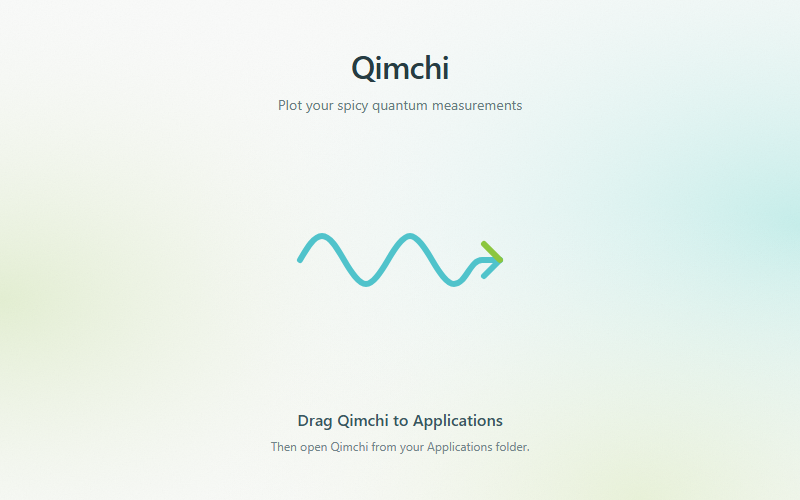
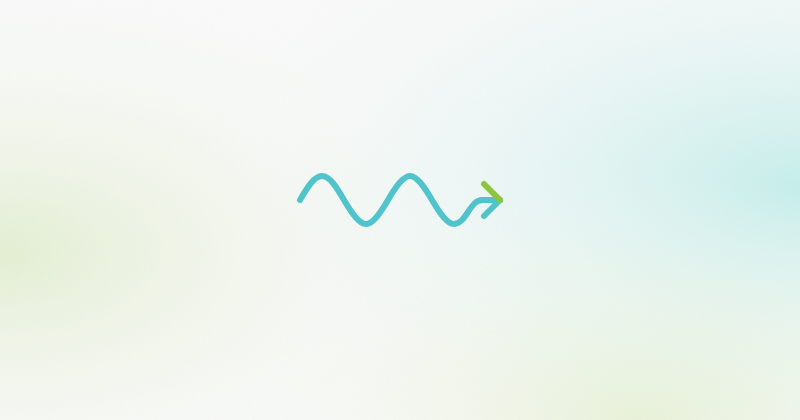
Packaging: simplify the macOS installer artwork

Changed region(s): [[0.375, 0.4024, 0.625, 0.5881], [0.3438, 0.8357, 0.6562, 0.9286], [0.3438, 0.0929, 0.6562, 0.2476]]

diff --git a/packaging/dmg-settings.py b/packaging/dmg-settings.py
@@ -2,6 +2,7 @@
 Branded Finder layout, written by dmgbuild without a live Finder session.
 
 The build passes absolute app and assets paths via dmgbuild's -D arguments.
+
 Keep the window and icon coordinates aligned with assets/dmg-background.svg.
 
 """
@@ -24,7 +25,7 @@ if not Path(background).is_file():
     raise FileNotFoundError(background)
 
 # dmgbuild combines the adjacent @2x PNG into a Retina background on macOS.
-window_rect = ((200, 120), (800, 500))
+window_rect = ((200, 120), (800, 420))
 default_view = "icon-view"
 show_toolbar = False
 show_status_bar = False
@@ -39,7 +40,7 @@ scroll_position = (0, 0)
 icon_size = 128
 text_size = 16
 label_pos = "bottom"
-icon_locations = {"Qimchi.app": (200, 260), "Applications": (600, 260)}
+icon_locations = {"Qimchi.app": (200, 200), "Applications": (600, 200)}
 
 _icon = _app.parent / "qimchi-logo.icns"
 if not _icon.is_file():
